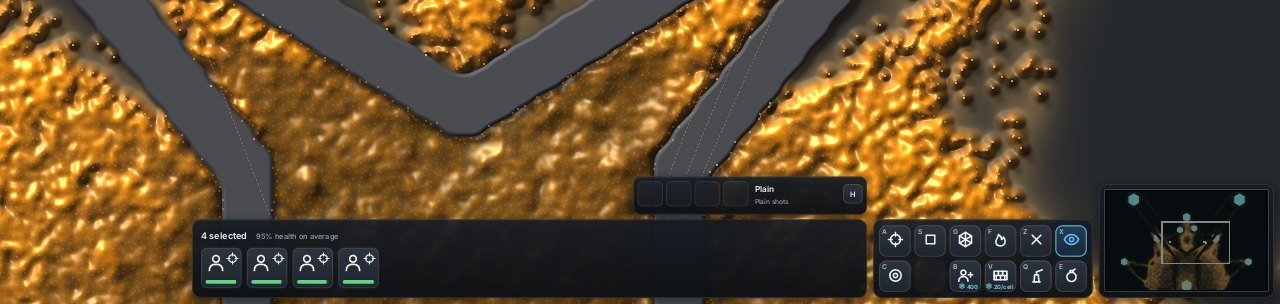
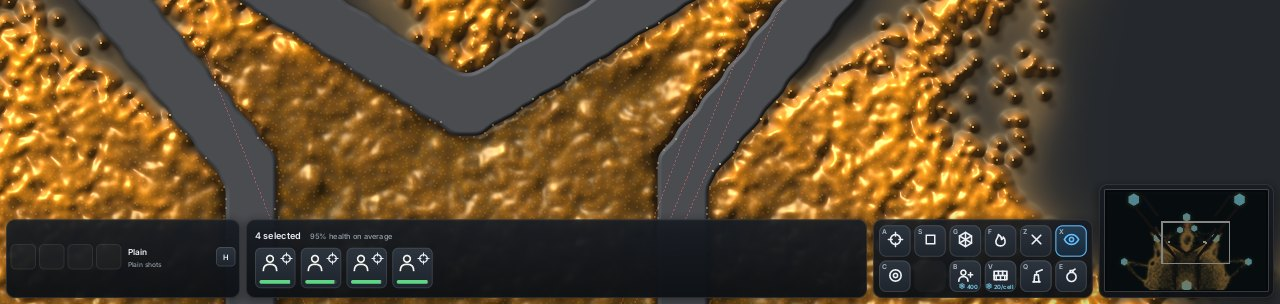
Bottom bar: the gun cards as a panel at the far left, the selection fills the middle
Owner 11-14 08:46Z. The loadout strip draws centred in its own bar-height
panel at the left edge; the selection panel spans from it to the command
card (900-unit cap dropped). Falls back to the old placement over the
panels when the selection would be under 240 units. HUD tests pass at
every UI size on 4 screens.

Claude-Session: https://claude.ai/code/session_01PYHSSurw5cLpZPWwpgHzfx

diff --git a/Reports/ui-size-2026-11-14/page/index.html b/Reports/ui-size-2026-11-14/page/index.html
@@ -48,10 +48,10 @@ kbd { font:600 .85em var(--body); border:1px solid var(--line); border-radius:4p
 
   <section style="display:grid;gap:8px">
     <h2>Wider, shorter bottom bar</h2>
-    <p class="lede">One row of squad cards, the commands on two rows of six. The minimap keeps its old height in the corner. Bottom strip of each 100% frame.</p>
+    <p class="lede">The gun cards in their own panel at the far left, one row of squad cards filling the middle, the commands on two rows of six. The minimap keeps its old height in the corner. Bottom strip of each 100% frame.</p>
   </section>
   <figure><img src="bar-before.jpg" alt="Bottom bar before"><figcaption><b>Before, 1920×1080</b><span>bar <span class="k">160 px</span> (15%)</span><span>commands 4 × 3, squad panel 600 px wide</span></figcaption></figure>
-  <figure><img src="bar-after.jpg" alt="Bottom bar after"><figcaption><b>After, 1920×1080</b><span>bar <span class="k">113 px</span> (10.5%)</span><span>commands 6 × 2, squad panel up to 900 px wide</span></figcaption></figure>
+  <figure><img src="bar-after.jpg" alt="Bottom bar after"><figcaption><b>After, 1920×1080</b><span>bar <span class="k">113 px</span> (10.5%)</span><span>gun cards far left, squad panel fills the middle, commands 6 × 2</span></figcaption></figure>
   <figure><img src="bar-after-1280.jpg" alt="Bottom bar after at 1280x800"><figcaption><b>After, 1280×800</b><span>bar <span class="k">84 px</span> (10.5%)</span></figcaption></figure>
 
   <div class="pair">

diff --git a/src/world/ui.rs b/src/world/ui.rs
@@ -79,6 +79,12 @@ const CARD_ROWS: u8 = 2;
 /// standing above the shorter bar, so it does not shrink with it.
 const MINIMAP_H: f32 = 3.0 * CELL + 2.0 * CELL_GAP + 2.0 * CARD_PAD;
 
+/// The loadout strip's width: its slots, the name and state, and Swap.
+fn loadout_w(l: &Loadout, s: f32) -> f32 {
+    let slots = l.slots.max(l.cards.len()).max(1) as f32;
+    2.0 * 6.0 * s + slots * 34.0 * s + (slots - 1.0) * 4.0 * s + 8.0 * s + 112.0 * s + if l.cycle.is_some() { 26.0 * s + 6.0 * s } else { 0.0 }
+}
+
 /// A command's place on the 6 x 2 card from its 4 x 3 `slot` (row, col):
 /// the twelve slots in reading order, wrapped at six.
 fn card_slot(slot: (u8, u8)) -> (u8, u8) {
@@ -819,9 +825,15 @@ impl Hud {
             right = f.x - 8.0 * s;
         }
         let card = Rect::new(right - card_w, top_of, card_w, panel_h);
-        // Wide and one card row tall (owner, 08:33Z).
-        let sel_w = (900.0 * s).min(card.x - 16.0 * s);
-        let sel = Rect::new(card.x - 8.0 * s - sel_w, top_of, sel_w, panel_h);
+        // The gun cards' panel at the bar's far left (owner, 08:46Z: "gun/card
+        // menu should go on the far left to fill the rest of the screen"),
+        // the selection panel filling the row between it and the command
+        // card (one card row tall, owner 08:33Z). Where that leaves the
+        // selection under 240 units the strip goes back over the panels.
+        let gun_w = m.loadout.as_ref().map(|l| loadout_w(l, s));
+        let gun = gun_w.map(|w| Rect::new(8.0 * s, top_of, w, panel_h)).filter(|g| card.x - 8.0 * s - (g.right() + 8.0 * s) >= 240.0 * s);
+        let left = gun.map_or(8.0 * s, |g| g.right() + 8.0 * s);
+        let sel = Rect::new(left, top_of, (card.x - 8.0 * s - left).max(0.0), panel_h);
         // With nothing selected the selection panel collapses to a strip
         // along the bottom (the art director, 11-14 02:34Z: a full-height
         // panel that only said "Nothing selected").
@@ -834,7 +846,7 @@ impl Hud {
         // Before the command card, so the card's tooltips cover it; its
         // own card tooltip after.
         self.cycle = m.loadout.as_ref().and_then(|l| l.cycle.map(|c| c.0));
-        let tip = m.loadout.as_ref().and_then(|l| self.loadout_draw(l, sel, empty, card, c, s));
+        let tip = m.loadout.as_ref().and_then(|l| self.loadout_draw(l, gun, sel, empty, card, c, s));
         self.command_card(m, card, c, s);
         match (&m.loadout, tip) {
             (Some(l), Some((k, r))) if k < l.cards.len() => self.card_tip(&l.cards[k], r, c, s),
@@ -1166,20 +1178,23 @@ impl Hud {
     /// 140-pixel box over the command card with each card's name under its
     /// glyph. Returns the hovered card (or `usize::MAX` for the name and
     /// state, whose tooltip is the whole loadout) and its rectangle.
-    fn loadout_draw(&mut self, l: &Loadout, sel: Rect, collapsed: bool, card: Rect, c: &mut Canvas, s: f32) -> Option<(usize, Rect)> {
+    #[allow(clippy::too_many_arguments)]
+    fn loadout_draw(&mut self, l: &Loadout, panel: Option<Rect>, sel: Rect, collapsed: bool, card: Rect, c: &mut Canvas, s: f32) -> Option<(usize, Rect)> {
         let pad = 6.0 * s;
         let cell = 34.0 * s;
         let gap = 4.0 * s;
         let slots = l.slots.max(l.cards.len()).max(1);
         let info_w = 112.0 * s;
         let swap = 26.0 * s;
-        let w = 2.0 * pad + slots as f32 * cell + (slots - 1) as f32 * gap + 8.0 * s + info_w + if l.cycle.is_some() { swap + 6.0 * s } else { 0.0 };
+        let w = loadout_w(l, s);
         let h = 2.0 * pad + cell + 5.0 * s;
-        // On the selection panel's top edge at its right; where the window
-        // is too narrow for one, on the command card's.
-        // With the selection panel collapsed, at the bottom of its place,
-        // right of the collapsed strip.
-        let r = if collapsed && sel.w >= w + 158.0 * s {
+        // Its own panel at the bar's far left (11-14 08:46Z), the strip
+        // centred in it; else, as before, on the selection panel's top edge
+        // at its right, or the command card's where the window is too
+        // narrow; with the selection collapsed, at the bottom of its place.
+        let r = if let Some(p) = panel {
+            Rect::new(p.x, p.y + (p.h - h) / 2.0, p.w, h)
+        } else if collapsed && sel.w >= w + 158.0 * s {
             Rect::new(sel.right() - w, sel.bottom() - h, w, h)
         } else {
             let on = if sel.w >= 120.0 * s && sel.w >= w + 150.0 * s { sel } else { card };
@@ -1188,7 +1203,10 @@ impl Hud {
         if r.y < self.top + 8.0 * s {
             return None;
         }
-        self.glass(r, 10.0 * s, c, s);
+        match panel {
+            Some(p) => self.glass(p, 12.0 * s, c, s),
+            None => self.glass(r, 10.0 * s, c, s),
+        }
         let mut tip = None;
         let y = r.y + pad;
         for i in 0..slots {

diff --git a/wiki/world/world-camera.md b/wiki/world/world-camera.md
@@ -110,7 +110,7 @@ the cast the shown soldier's next hit fires lit, the recharge, a tooltip
 per card and a swap button (H, `NEXT_ROUND`); the same change cut the
 bottom panels from 20% of the screen to 15% (160 of 1080 pixels, 120 of
 800), collapses the selection panel when nothing is selected, and opens
-the camera in the band above them ([report](../../Reports/gun-card-hud-2026-11-14/README.md)). The whole UI, the map editor's panel included, lays out in `UiSize::px` pixels a unit (2026-11-14): the height's share of 1080 lines as before, with the window's DPI scale as a floor and the player's size (75% to 300%, Ctrl + / Ctrl -, the Options page, `ui=`) over it, capped so the bottom bar stays under a third of the screen, and saved in `settings.txt`; the same day the owner asked for a wider, shorter bottom bar, so the command card is 6 x 2 and the squad one row, 113 of 1080 pixels (10.5%), the minimap standing at its old height in the corner ([report](../../Reports/ui-size-2026-11-14/README.md)). The game itself is `cargo run --release
+the camera in the band above them ([report](../../Reports/gun-card-hud-2026-11-14/README.md)). The whole UI, the map editor's panel included, lays out in `UiSize::px` pixels a unit (2026-11-14): the height's share of 1080 lines as before, with the window's DPI scale as a floor and the player's size (75% to 300%, Ctrl + / Ctrl -, the Options page, `ui=`) over it, capped so the bottom bar stays under a third of the screen, and saved in `settings.txt`; the same day the owner asked for a wider, shorter bottom bar, so the gun cards are a panel at its far left, the command card is 6 x 2 and the squad one row filling the middle, 113 of 1080 pixels (10.5%), the minimap standing at its old height in the corner ([report](../../Reports/ui-size-2026-11-14/README.md)). The game itself is `cargo run --release
 --bin larder-world` (W2c,
 [report](../../Reports/larder-world-roadmap-2026-11-11.md)): the Larder
 rules on the GPU world through this camera, UI and look. The GPU sandbox's
@@ -152,7 +152,7 @@ as lines.
 - 2026-11-11 20:16Z: "We need to know about solider health, numbers, ways to control them, eventually we will have different weapons, upgrades, build walls (and probably other things in the future), menus, enemy info"; "make it look modern and professional."
 - 2026-11-14 01:49Z: "I also have no way to see what the gun cards are in the interface."
 - 2026-11-14 08:07Z: "We need an option to scale the UI/text etc, because they look too small on my screen."
-- 2026-11-14 08:33Z: "re-arrange the bottom menu to be one row for the squad and two rows for the other buttons so the whole thing is wider but shorter"
+- 2026-11-14 08:33Z: "re-arrange the bottom menu to be one row for the squad and two rows for the other buttons so the whole thing is wider but shorter"; 08:46Z: "gun/card menu should go on the far left to fill the rest of the screen."
 - 2026-11-11 14:06Z: "A longer persistent world. Maybe a campaign. Crystal should run out which forces you to expand."
 
 ## Open

diff --git a/Reports/ui-size-2026-11-14/README.md b/Reports/ui-size-2026-11-14/README.md
@@ -50,7 +50,12 @@ shorter". The command card is 6 x 2 (the 4 x 3 slots in reading order,
 `card_slot`), the selection panel one row of cards and up to 900 units wide
 (600 before), and the bar 113 units at 1080 lines instead of 160 (10.5% of
 the screen, 15% before). The minimap keeps the old 152-unit height in the
-corner. Pictures: the page's *Wider, shorter bottom bar*.
+corner. Then (08:46Z: "gun/card menu should go on the far left to fill
+the rest of the screen") the gun-card strip became its own panel at the
+bar's far left, and the selection panel fills the row between it and the
+command card (no 900 cap); where that would leave the selection under 240
+units the strip goes back over the panels. Pictures: the page's *Wider,
+shorter bottom bar*.
 
 ## Cost
 
